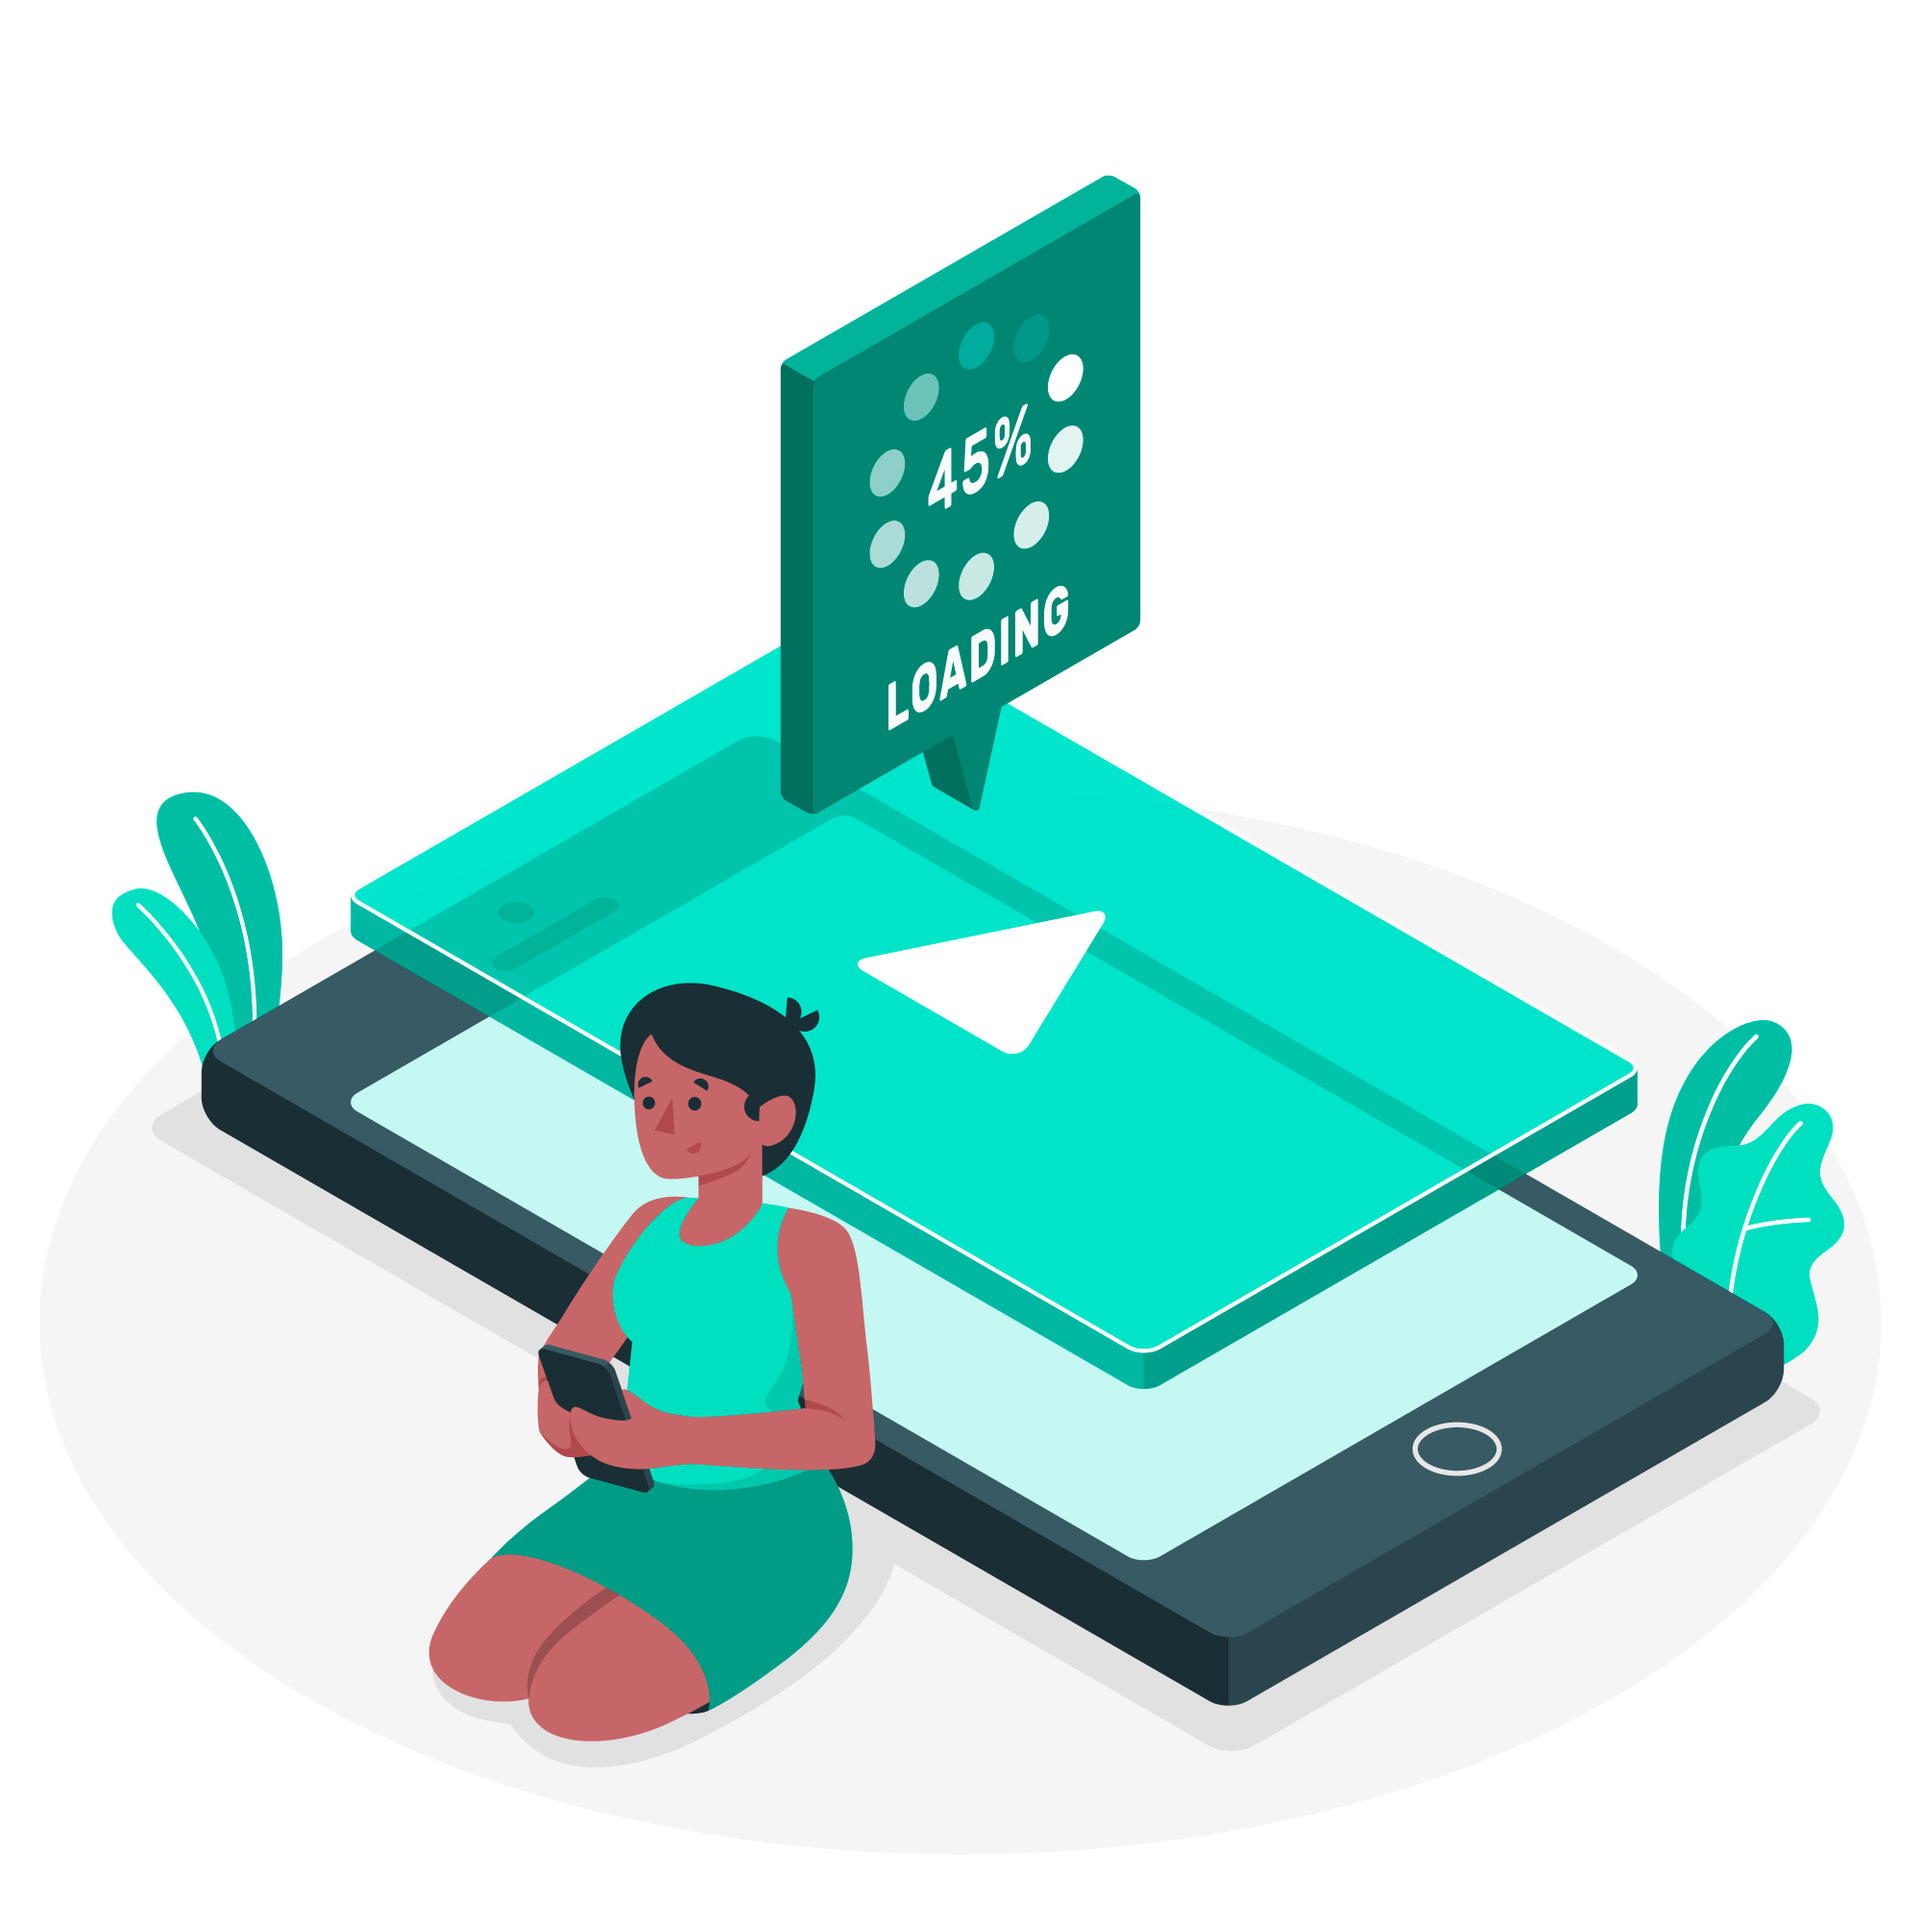
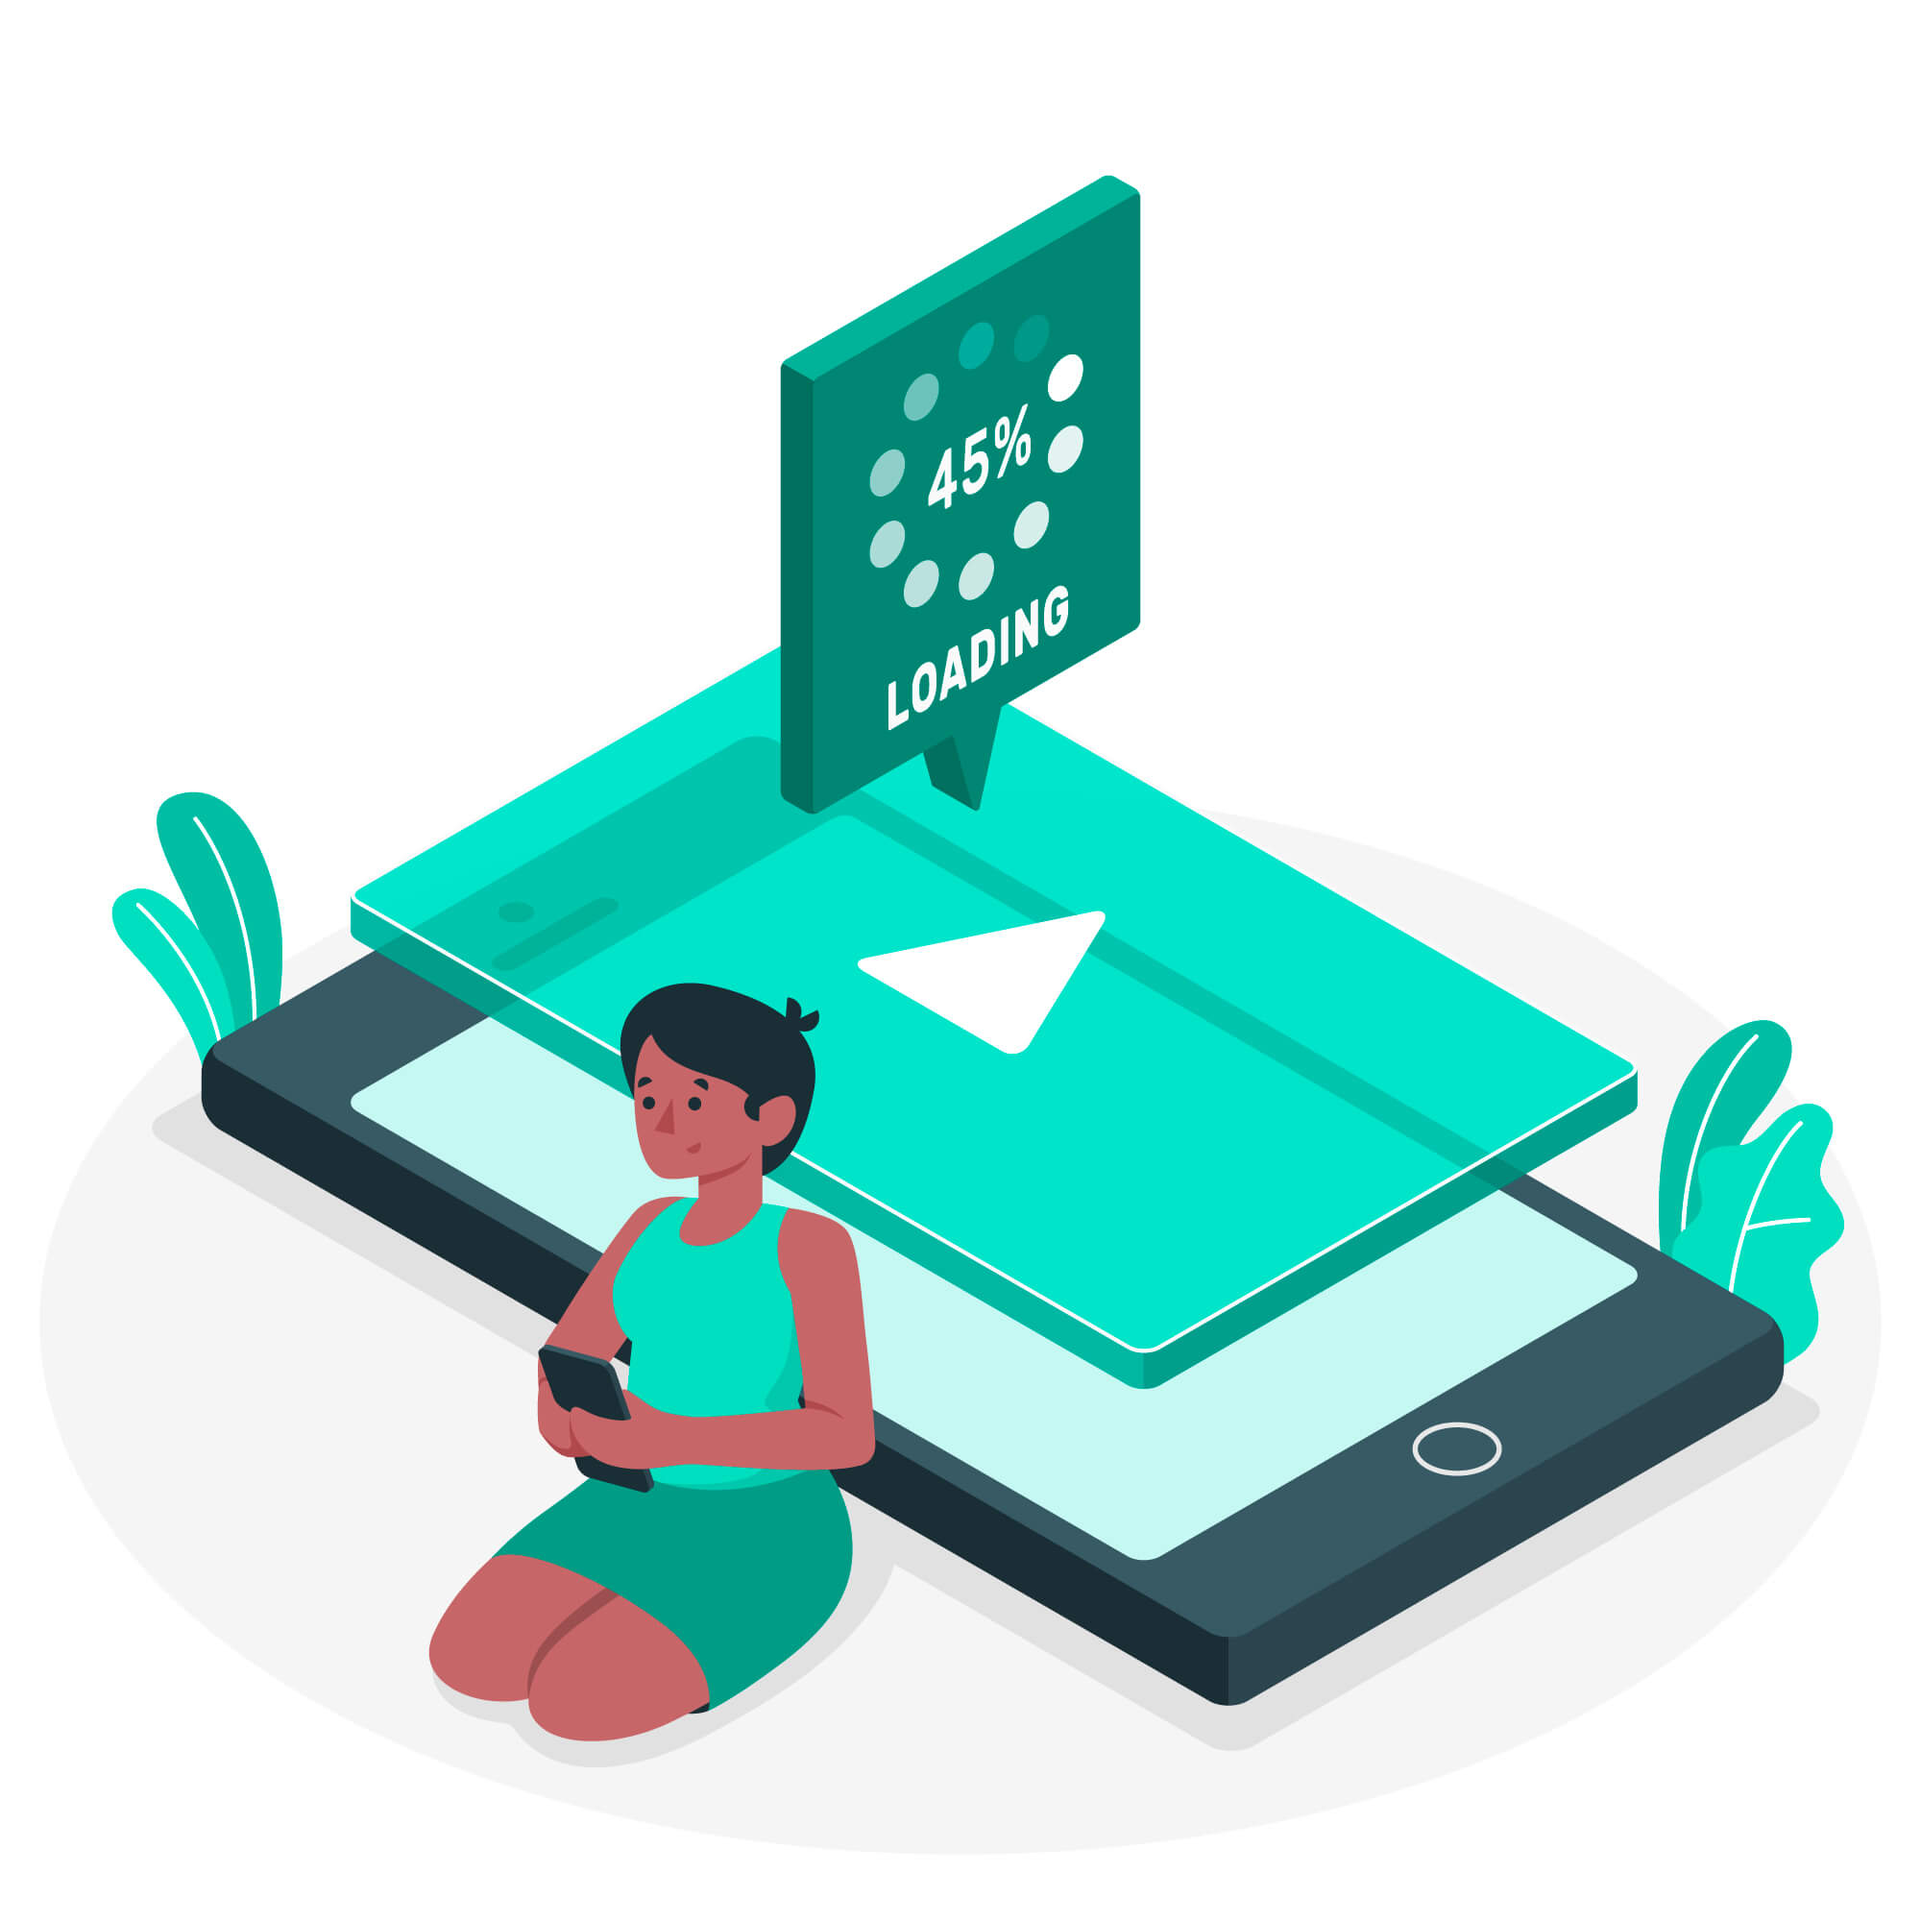
compressed files

Changed region(s): [[0.496, 0.217, 0.527, 0.248]]

diff --git a/index.html b/index.html
@@ -9,8 +9,8 @@
       rel="stylesheet"
       href="https://cdnjs.cloudflare.com/ajax/libs/font-awesome/6.3.0/css/all.min.css"
     />
-     <link rel="stylesheet" href="style.css" />
-    
+    <link rel="stylesheet" href="style.css" />
+
     <!-- ----------------------email-------------------------------- -->
     <script
       type="text/javascript"
@@ -264,7 +264,7 @@
 
       <div class="projects-content">
         <div class="melo projects-common">
-          <img src="images/music.png" alt="" />
+          <img src="images/music.jpeg" alt="" />
           <div class="music-div">
             <h1>Melo (Music-Player)</h1>
             <p>A fully functional music player build in python.</p>
@@ -383,13 +383,7 @@
           <form>
             <div class="contact-name">
               <i class="fa-solid fa-user"></i
-              ><input
-                type="text"
-                placeholder="Name"
-                id="name"
-                name="Name"
-                required
-              />
+              ><input type="text" placeholder="Name" id="name" name="Name" />
             </div>
             <div class="contact-name">
               <i class="fa-solid fa-envelope"></i
@@ -398,7 +392,6 @@
                 placeholder="Email"
                 id="email"
                 name="Email"
-                required
               />
             </div>
             <div class="contact-name">
@@ -408,7 +401,6 @@
                 placeholder="Phone"
                 id="number"
                 name="Phone"
-                required
               />
             </div>
             <div class="contact-name message-box">
@@ -418,7 +410,6 @@
                 cols="30"
                 rows="7"
                 placeholder="Message"
-                required
               ></textarea>
             </div>
             <div class="button-to-send">
@@ -431,6 +422,10 @@
       </div>
       <h2 class="common-start-end common-end-color myedu">&lt /Contact &gt</h2>
     </section>
+
+    <div class="footer">
+      <span class="footer1"> Designed with ❤ by <ba> Bishal Prasad</ba></span>
+    </div>
 
     <!-- --------------------------------------------------------------------------- -->
 

diff --git a/main.js b/main.js
@@ -42,7 +42,7 @@ window.addEventListener("scroll", function () {
 
 window.onblur = function () {
   //change favicon
-  document.title = "Come Back";
+  document.title = "Come Back To Profile";
   document.querySelector("link[rel*='icon']").href = "images/alternative.ico";
 };
 window.onfocus = function () {
@@ -82,27 +82,26 @@ function sendMail() {
   }
 }
 
-
- new TypeIt("#text1", {
-   speed: 110,
-   loop: true,
-   waitUntilVisible: true,
- })
-   .type("Wee", { delay: 300 })
-   .move(0)
-   .delete(1)
-   .type("b")
-   .move(null, { to: "END" })
-   .type(" Development")
-   .pause(100)
-   .move(-11)
-   .type(" Application ")
-   .pause(100)
-   .move(11)
-   .pause(20)
-   .move(-23)
-   .pause(100)
-   .delete(5)
-   .pause(500)
-   .move(null, { to: "END" })
-   .go();
+new TypeIt("#text1", {
+  speed: 110,
+  loop: true,
+  waitUntilVisible: true,
+})
+  .type("Wee", { delay: 300 })
+  .move(0)
+  .delete(1)
+  .type("b")
+  .move(null, { to: "END" })
+  .type(" Development")
+  .pause(100)
+  .move(-11)
+  .type(" Application ")
+  .pause(100)
+  .move(11)
+  .pause(20)
+  .move(-23)
+  .pause(100)
+  .delete(5)
+  .pause(500)
+  .move(null, { to: "END" })
+  .go();

diff --git a/style.css b/style.css
@@ -684,3 +684,22 @@ header {
 .activate a {
   color: inherit;
 }
+
+.footer{
+  display: flex;
+  flex-direction: row;
+  justify-content: center;
+  align-items: center;
+  height: 50px;
+  width: 100%;
+  background: rgb(0, 0, 0);
+  font-family: "Suez One", serif;
+}
+.footer1{
+  color: wheat;
+}
+.footer1 ba{
+  color: white;
+  font-family: "Bakbak One", cursive;
+}
+
